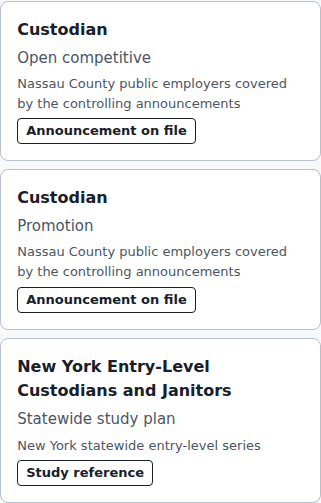
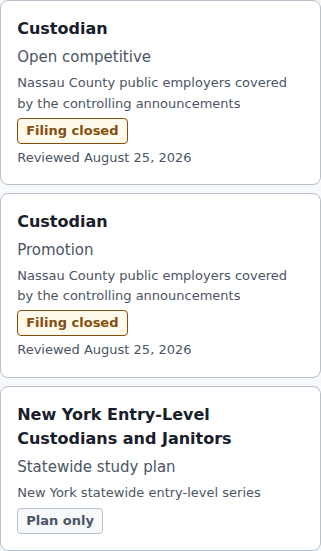
Add source-bound Exams filing filters and reviewed status labels

Changed region(s): [[0.0, 0.0, 1.0, 0.7157], [0.0312, 0.7157, 0.81, 0.9841], [0.81, 0.4771, 0.8723, 0.507]]

diff --git a/apps/site/scripts/generate-pages.tsx b/apps/site/scripts/generate-pages.tsx
@@ -1,3 +1,4 @@
+import { resolveFilingStatusReviews } from "./filing-status.ts"
 import { setupDestinations } from "../src/practice/setup-navigation.ts"
 import { questionCategoryFromSafeMetadata } from "../src/question-category.ts"
 import { ReviewQuestionBootstrap, type ReviewQuestionSource, type ReviewSceneSource } from "../src/review/model.ts"
@@ -764,6 +765,7 @@ const buildPages = ({
   readonly pages: ReadonlyArray<PageDefinition>
   readonly printBootstrap: PrintBuilderBootstrap
 } => {
+  const filingReviews = resolveFilingStatusReviews(catalog)
   const sourceById = new Map(catalog.sources.map((source) => [source.id, source]))
   const sourceLineById = new Map(catalog.sourceLines.map((line) => [line.id, line]))
   const toolById = new Map(catalog.tools.map((tool) => [tool.conceptId, tool]))
@@ -1152,6 +1154,7 @@ const buildPages = ({
       kind: identity === null ? "Statewide study plan" : capitalize(identity.competitionType.replaceAll("-", " ")),
       profile,
       identity,
+      filingReview: identity === null ? undefined : filingReviews.get(`${profile.id}:${identity.examNumber}`),
       facts: profile.announcementFactSheet?.facts.filter((fact) =>
         identity !== null && fact.appliesToExamNumbers.includes(identity.examNumber) && fact.state !== "superseded"
       ) ?? []
@@ -1328,15 +1331,17 @@ const buildPages = ({
       ${renderAnnouncementMilestones(announcementFacts, sourceLineById, sourceById, "exams-cycle")}
       <section class="home-section" id="exams-board" data-exam-browser aria-labelledby="exam-board-heading"><div class="section-header"><h2 id="exam-board-heading">Find your exam</h2><p>Open an entry to compare its facts. Your official announcement and admission notice govern your exam.</p></div>
         <div class="search-field" data-exam-search-field hidden><label class="sr-only" for="exam-search">Search announcements and study plans</label>${navIcon("search")}<input id="exam-search" type="search" data-exam-search placeholder="Title, jurisdiction, or exam number" autocomplete="off"></div>
+        <div class="filter-group" role="group" aria-label="Filing status at source review" data-exam-status-filters hidden>${[["all", "All"], ["open", "Open for filing"], ["closed", "Filing closed"], ["plan", "Plan only"]].map(([value, label]) => `<button type="button" data-exam-status-filter="${value}" aria-pressed="${value === "all"}">${label}</button>`).join("")}</div>
+        <p class="source-note">Filing labels describe the announcement at its source review date. Later notices or filing periods may exist.</p>
         <p class="source-note" data-exam-count role="status">${examRecords.length} entries in the published registry.</p>
-        <div class="record-board"><ul class="record-list" aria-label="Available profiles">${examRecords.map((record) => `<li data-exam-row data-exam-search-text="${escapeHtml(`${record.title} ${record.kind} ${record.profile.jurisdiction} ${record.identity?.examNumber ?? ""}`.toLowerCase())}"><a class="record-item" data-exam-choice="${record.id}" href="#${record.id}"><strong>${escapeHtml(record.title)}</strong><span class="record-kind">${escapeHtml(record.kind)}</span><span class="record-when">${escapeHtml(record.profile.jurisdiction)}</span><span class="status-chip">${record.identity === null ? "Study reference" : "Announcement on file"}</span></a><div class="exam-card-coverage"><p>${record.identity === null ? "The statewide guide names three subject areas. Your own announcement controls which apply." : escapeHtml(record.profile.testPlanCompatibility.detail)}</p><a class="button button-primary" href="/practice/#covers">See what practice covers</a></div></li>`).join("")}</ul>
+        <div class="record-board"><ul class="record-list" aria-label="Available profiles">${examRecords.map((record) => `<li data-exam-row data-exam-status="${record.identity === null ? "plan" : record.filingReview?.state ?? "unknown"}" data-exam-search-text="${escapeHtml(`${record.title} ${record.kind} ${record.profile.jurisdiction} ${record.identity?.examNumber ?? ""}`.toLowerCase())}"><a class="record-item" data-exam-choice="${record.id}" href="#${record.id}"><strong>${escapeHtml(record.title)}</strong><span class="record-kind">${escapeHtml(record.kind)}</span><span class="record-when">${escapeHtml(record.profile.jurisdiction)}</span><span class="status-chip ${record.filingReview?.state === "closed" ? "status-chip-warning" : "status-chip-neutral"}">${record.identity === null ? "Plan only" : record.filingReview?.state === "closed" ? "Filing closed" : record.filingReview?.state === "open" ? "Open for filing" : "Status unverified"}</span>${record.filingReview === undefined ? "" : `<span class="record-when">Reviewed ${escapeHtml(publicDate(record.filingReview.reviewedOn))}</span>`}</a><div class="exam-card-coverage"><p>${record.identity === null ? "The statewide guide names three subject areas. Your own announcement controls which apply." : escapeHtml(record.profile.testPlanCompatibility.detail)}</p><a class="button button-primary" href="/practice/#covers">See what practice covers</a></div></li>`).join("")}</ul>
           <div class="record-detail-stack"><section class="record-detail" data-exam-prompt hidden><h3>Start with the title on your announcement</h3><p>Choose an entry to read its facts and source support. Reading an entry does not change your study settings.</p></section>${examRecords.map((record) => `<article class="record-detail" id="${record.id}" data-exam-panel tabindex="-1" aria-labelledby="${record.id}-heading"><div class="record-detail-header"><div><p class="record-kind">${escapeHtml(record.kind)}</p><h3 id="${record.id}-heading">${escapeHtml(record.title)}</h3><p>${escapeHtml(record.profile.audience)}</p></div><div class="record-detail-actions"><a class="button button-primary" href="/practice/#covers">See what practice covers</a><a class="button button-secondary" href="${record.profile.canonicalPath}">Read the full profile</a></div></div>
             <details class="source-note record-source-trail"><summary>Sources for this record</summary>${sourceProofLine([...new Set(record.identity === null ? record.profile.testPlanCompatibility.sourceLineIds : record.facts.flatMap((fact) => [...fact.sourceLineIds, ...fact.conflictingValues.flatMap((value) => value.sourceLineIds)]))], record.identity === null ? [record.profile.contentAvailability.lastVerifiedOn] : record.facts.map((fact) => fact.reviewedOn), sourceLineById, sourceById)}</details>
             <div class="tabs" role="tablist" aria-label="${escapeHtml(record.title)} details" data-exam-tabs hidden><button type="button" id="${record.id}-facts-tab" role="tab" aria-selected="true" aria-controls="${record.id}-facts" data-record-tab="facts">Announcement facts</button><button type="button" id="${record.id}-subjects-tab" role="tab" aria-selected="false" aria-controls="${record.id}-subjects" data-record-tab="subjects" tabindex="-1">What it tests</button></div>
             <section id="${record.id}-facts" data-record-tab-panel="facts"><h4>Announcement facts</h4>${record.identity === null ? `<p>${escapeHtml(record.profile.testPlanCompatibility.detail)}</p><p>This statewide study plan has no exam number or filing period. Use your jurisdiction’s announcement for those details.</p>` : `<dl class="fact-table">${record.facts.filter((fact) => ["filing_period", "exam_date", "fee", "qualifications", "jurisdictions", "administration_status"].includes(fact.category)).map((fact) => `<div><dt>${escapeHtml(fact.label)}</dt><dd>${fact.state === "verified" ? "" : `<span class="fact-state fact-state-${fact.state}">${fact.category === "administration_status" && fact.state === "unverified" ? "Not confirmed" : factStateLabel(fact.state)}</span> `}${escapeHtml(fact.value ?? fact.detail ?? "No value asserted.")}<details class="source-note technical-details"><summary>Technical details</summary>${sourceLineLinks(fact.sourceLineIds, sourceLineById, sourceById)}<p>Checked ${escapeHtml(publicDate(fact.reviewedOn))}.</p></details></dd></div>`).join("")}</dl>`}<details class="source-note"><summary>Technical details</summary><p>${record.identity === null ? "No exam number at the statewide study-plan level." : `Exam number ${escapeHtml(record.identity.examNumber)}.`} Profile version ${record.profile.version}. Content reviewed ${escapeHtml(publicDate(record.profile.contentAvailability.lastVerifiedOn))}.</p></details></section>
             <section id="${record.id}-subjects" data-record-tab-panel="subjects"><h4>What it tests</h4><p>${escapeHtml(record.profile.testPlanCompatibility.detail)}</p>${scopeList}<p>Practice-set lengths and distributions are designed for this site. They do not establish the official question count or subject weights.</p><details class="technical-details"><summary>Technical details</summary>${sourceLineLinks(record.profile.testPlanCompatibility.sourceLineIds, sourceLineById, sourceById)}</details></section>
           </article>`).join("")}</div>
-        </div><div class="empty-state" data-exam-empty hidden><h3 tabindex="-1">No entries match your search</h3><p>Clear your search to see every announcement and study plan in this published registry.</p><button class="button button-secondary" type="button" data-exam-clear>Clear search</button></div>
+        </div><div class="empty-state" data-exam-empty hidden><h3 tabindex="-1">No entries match these filters</h3><p>Clear the filters to see every announcement and study plan in this published registry.</p><button class="button button-secondary" type="button" data-exam-clear>Clear filters</button></div>
       </section>
       <section class="home-section"><div class="section-header"><h2>Start studying</h2><p>Explore the original practice and reference content without an account.</p></div>${examTaskCards}</section>
     </div>

diff --git a/apps/site/browser-tests/design-handoff.pw.ts b/apps/site/browser-tests/design-handoff.pw.ts
@@ -154,7 +154,7 @@ test("exam search, record selection, and detail tabs use the published records",
   await expect(page.locator("[data-exam-empty]")).toBeVisible()
   await expect(page.locator("[data-exam-panel]:visible")).toHaveCount(0)
   expect(new URL(page.url()).searchParams.has("record")).toBe(false)
-  await page.getByRole("button", { name: "Clear search", exact: true }).click()
+  await page.getByRole("button", { name: "Clear filters", exact: true }).click()
   await expect(search).toBeFocused()
   await expect(search).toHaveValue("")
   await expect(page.locator("[data-exam-row]:visible")).toHaveCount(total)
@@ -227,4 +227,36 @@ test("exam cycle keeps the responsive reading order and sources without JavaScri
       await expectPageReflow(page)
     }
   } finally { await context.close() }
+})
+
+test("filing filters compose with search, restore from the URL, and never select a study exam", async ({ page }) => {
+  await page.setViewportSize({ width: 384, height: 900 })
+  await page.goto("/exams/?filing=closed")
+  const before = await page.evaluate(() => JSON.stringify({ ...localStorage }))
+  const filters = page.getByRole("group", { name: "Filing status at source review" })
+  const rows = page.locator("[data-exam-row]:visible")
+  await expect(filters.getByRole("button", { name: "Filing closed", exact: true })).toHaveAttribute("aria-pressed", "true")
+  await expect(rows).toHaveCount(2)
+  const search = page.getByRole("searchbox")
+  await search.fill("promotion")
+  await expect(rows).toHaveCount(1)
+  await page.locator("[data-exam-choice]:visible").click()
+  await expect(page.locator("[data-exam-panel]:visible")).toHaveCount(1)
+  await filters.getByRole("button", { name: "Plan only", exact: true }).click()
+  await expect(rows).toHaveCount(0)
+  await expect(page.locator("[data-exam-panel]:visible")).toHaveCount(0)
+  expect(new URL(page.url()).searchParams.has("record")).toBe(false)
+  await page.getByRole("button", { name: "Clear filters", exact: true }).click()
+  await expect(search).toBeFocused()
+  await expect(rows).toHaveCount(3)
+  await filters.getByRole("button", { name: "Plan only", exact: true }).click()
+  await expect(rows).toHaveCount(1)
+  await page.reload()
+  await expect(rows).toHaveCount(1)
+  await filters.getByRole("button", { name: "Open for filing", exact: true }).click()
+  await expect(rows).toHaveCount(0)
+  await expect(page.locator("[data-exam-empty]")).toBeVisible()
+  await expect(page.locator("[data-exam-prompt]")).toBeHidden()
+  await expectPageReflow(page)
+  expect(await page.evaluate(() => JSON.stringify({ ...localStorage }))).toBe(before)
 })

diff --git a/apps/site/src/static-browser.ts b/apps/site/src/static-browser.ts
@@ -147,11 +147,14 @@ const enhanceExams = (root: HTMLElement): void => {
     tabs.hidden = false
   }
 
+  const statusGroup = root.querySelector<HTMLElement>("[data-exam-status-filters]")
+  const statusButtons = [...root.querySelectorAll<HTMLButtonElement>("[data-exam-status-filter]")]
+  let status = "all"
   const filter = (): void => {
     const query = search.value.trim().toLocaleLowerCase()
     let visible = 0
     for (const row of rows) {
-      row.hidden = !(row.dataset.examSearchText ?? "").includes(query)
+      row.hidden = !(row.dataset.examSearchText ?? "").includes(query) || (status !== "all" && row.dataset.examStatus !== status)
       if (!row.hidden) visible += 1
     }
     const selected = choices.find((choice) => choice.hasAttribute("aria-current"))
@@ -159,17 +162,30 @@ const enhanceExams = (root: HTMLElement): void => {
       show(null, false)
       replaceQuery("record", null)
     }
-    count.textContent = `${visible} ${visible === 1 ? "entry" : "entries"} in the published registry${query.length > 0 ? " match your search" : ""}.`
+    count.textContent = `${visible} ${visible === 1 ? "entry" : "entries"} in the published registry${query.length > 0 || status !== "all" ? " match these filters" : ""}.`
+    for (const button of statusButtons) button.setAttribute("aria-pressed", String(button.dataset.examStatusFilter === status))
     empty.hidden = visible !== 0
+    prompt.hidden = visible === 0 || choices.some((choice) => choice.hasAttribute("aria-current"))
   }
+  for (const button of statusButtons) button.addEventListener("click", () => {
+    status = button.dataset.examStatusFilter ?? "all"
+    replaceQuery("filing", status === "all" ? null : status)
+    filter()
+  })
   search.addEventListener("input", filter)
   root.querySelector<HTMLButtonElement>("[data-exam-clear]")?.addEventListener("click", () => {
     search.value = ""
+    status = "all"
+    replaceQuery("filing", null)
     filter()
     search.focus()
   })
   const url = new URL(window.location.href)
+  const requestedStatus = url.searchParams.get("filing")
+  status = statusButtons.some((button) => button.dataset.examStatusFilter === requestedStatus) ? requestedStatus! : "all"
   show(url.searchParams.get("record") ?? url.hash.slice(1), false)
+  filter()
+  if (statusGroup !== null) statusGroup.hidden = false
   searchField.hidden = false
 }
 

diff --git a/apps/site/scripts/filing-status.ts b/apps/site/scripts/filing-status.ts
@@ -1,0 +1,35 @@
+import { createHash } from "node:crypto"
+import type { CatalogArtifact } from "@nycustodian/content/model"
+import reviews from "../../../content/authoring/announcement-filing-status.json"
+
+type Catalog = typeof CatalogArtifact.Type
+type Fact = NonNullable<Catalog["profiles"][number]["announcementFactSheet"]>["facts"][number]
+export type FilingStatusReview = { readonly state: "open" | "closed"; readonly reviewedOn: string }
+
+export const filingFactDigest = (fact: Fact): string => createHash("sha256").update(JSON.stringify([
+  fact.id, fact.category, fact.state, fact.value, fact.reviewedOn,
+  [...fact.appliesToExamNumbers].sort(), [...fact.sourceLineIds].sort()
+])).digest("hex")
+
+const object = (value: unknown): value is Record<string, unknown> => typeof value === "object" && value !== null && !Array.isArray(value)
+
+export const resolveFilingStatusReviews = (catalog: Catalog, input: unknown = reviews): ReadonlyMap<string, FilingStatusReview> => {
+  if (!object(input) || input.schemaVersion !== 1 || !Array.isArray(input.reviews)) throw new Error("Invalid filing-status review ledger")
+  const result = new Map<string, FilingStatusReview>()
+  for (const row of input.reviews) {
+    if (!object(row) || typeof row.profileId !== "string" || typeof row.examNumber !== "string" ||
+      typeof row.factId !== "string" || typeof row.reviewedOn !== "string" || typeof row.factSha256 !== "string" ||
+      (row.state !== "open" && row.state !== "closed")) throw new Error("Invalid filing-status review entry")
+    const profile = catalog.profiles.find((entry) => entry.id === row.profileId)
+    const identity = profile?.examIdentities.find((entry) => entry.examNumber === row.examNumber)
+    const fact = profile?.announcementFactSheet?.facts.find((entry) => entry.id === row.factId)
+    const key = `${row.profileId}:${row.examNumber}`
+    if (identity === undefined || fact === undefined || fact.category !== "filing_period" || fact.state !== "verified" ||
+      !fact.appliesToExamNumbers.includes(row.examNumber) || fact.reviewedOn !== row.reviewedOn ||
+      filingFactDigest(fact) !== row.factSha256 || result.has(key)) {
+      throw new Error(`Stale, duplicate, or unsupported filing-status review: ${key}`)
+    }
+    result.set(key, { state: row.state, reviewedOn: row.reviewedOn })
+  }
+  return result
+}

diff --git a/apps/site/test/filing-status.test.ts b/apps/site/test/filing-status.test.ts
@@ -1,0 +1,35 @@
+import { describe, expect, it } from "vitest"
+import catalog from "../../../content/releases/vertical-slice/catalog.json"
+import reviews from "../../../content/authoring/announcement-filing-status.json"
+import { resolveFilingStatusReviews } from "../scripts/filing-status.ts"
+
+const source = catalog as unknown as Parameters<typeof resolveFilingStatusReviews>[0]
+describe("source-bound filing status", () => {
+  it("resolves the two reviewed announcement statuses", () => {
+    const result = resolveFilingStatusReviews(source)
+    expect([...result.values()]).toEqual([
+      { state: "closed", reviewedOn: "2026-08-25" },
+      { state: "closed", reviewedOn: "2026-08-25" }
+    ])
+  })
+  it("does not invent a status for an unclassified identity", () => {
+    expect(resolveFilingStatusReviews(source, { schemaVersion: 1, reviews: [] }).size).toBe(0)
+  })
+  it("rejects changed source prose even when the fact ID and date are unchanged", () => {
+    const changed = structuredClone(catalog)
+    const fact = changed.profiles.flatMap(profile => profile.announcementFactSheet?.facts ?? []).find(entry => entry.id === "oc-filing-period")!
+    fact.value = "A changed filing window."
+    expect(() => resolveFilingStatusReviews(changed as unknown as typeof source)).toThrow(/Stale/)
+  })
+  it("rejects stale dates, wrong announcement bindings, and duplicate classifications", () => {
+    const first = reviews.reviews[0]!
+    for (const rows of [
+      [{ ...first, reviewedOn: "2026-08-24" }],
+      [{ ...first, examNumber: "61012026" }],
+      [first, first]
+    ]) expect(() => resolveFilingStatusReviews(source, { schemaVersion: 1, reviews: rows })).toThrow(/Stale/)
+  })
+  it("rejects malformed status values", () => {
+    expect(() => resolveFilingStatusReviews(source, { schemaVersion: 1, reviews: [{ ...reviews.reviews[0], state: "guessed" }] })).toThrow(/Invalid/)
+  })
+})

diff --git a/design-review/2026-09-07/IMPLEMENTATION-STATUS.md b/design-review/2026-09-07/IMPLEMENTATION-STATUS.md
@@ -14,7 +14,7 @@ The active task is the complete handoff in `/mnt/models/dev/nycustodianexam/IMPL
 | Hazard player | HAZARD-PLAYER-REVIEW.md: responsive workspace, header/save panel, nine real-state captures and nine regression tests | Visual/keyboard layout, integrated retained-image overlay, correction/safe groups and compact recovery captured; final cross-browser and matching-width visual audit remain |
 | Simulation player/results | SIMULATION-NAVIGATOR-REVIEW.md and SIMULATION-FLOW-REVIEW.md: navigator, player/timer and question-result captures at 1008/384; restore/focus checks; 24 three-browser regressions pass | Visual/keyboard hazard player/results now captured at both widths; no-concerns target corrected and six three-browser hazard regressions pass; final integrated audit and separate Static Assets check remain |
 | Print configuration | Ten products and effective controls; reviewed document scope | PRINT-OUTPUT-REVIEW.md: actual Letter/A4 question PDFs and searchable-text fix; preview rows/actions and warning/error panels reconciled; twelve ready/recovery captures and 27 three-browser print checks pass; fresh Letter/A4 PDFs retain searchable text; all 45 extended large-print/tool PDF pages audited and grid-fragmentation overlap fixed; current PDFs and per-page verification retained; 42 hazard worksheet/answer/text PDF pages audited with pagination fixes; large-print heading/URL sizing fixed with fresh PDF evidence; source-inclusive hazard estimates now finalize from assembled content; final other-product PDF refresh remains |
-| Exams / Settings / Offline / report | UTILITY-PAGES-REVIEW.md: first-visit desktop/compact captures, Settings action layout/Offline grouping and recovery checks | Delete preview cancellation/captures verified; returning saved-work counts and Offline installed summaries now use actual storage with empty/unavailable captures; export contents scope is disclosed; Exams header/compact cards and announcement-first ordering reconciled with six three-browser checks and refreshed overview/record captures; cycle responsive order/source disclosure reconciled with 17 generation tests and nine three-browser checks; explicit filing metadata/status filters, date-row consolidation, full-page audit and report comparison remain; coverage action and three-browser navigation checks pass; all record/tab states captured; actual Offline active/removal/unavailable states captured |
+| Exams / Settings / Offline / report | UTILITY-PAGES-REVIEW.md: first-visit desktop/compact captures, Settings action layout/Offline grouping and recovery checks | Delete preview cancellation/captures verified; returning saved-work counts and Offline installed summaries now use actual storage with empty/unavailable captures; export contents scope is disclosed; Exams header/compact cards and announcement-first ordering reconciled with six three-browser checks and refreshed overview/record captures; cycle responsive order/source disclosure reconciled with 17 generation tests and nine three-browser checks; source-bound filing classifications and combined URL-restored filters implemented with 22 unit and 12 three-browser checks; date-row consolidation, full-page audit and report comparison remain; coverage action and three-browser navigation checks pass; all record/tab states captured; actual Offline active/removal/unavailable states captured |
 | Final validation/publication | First-slice local commit; next slice in progress | Combined 102 core browser checks yielded 100 passes and two Offline reflow failures; scoped grid fix passes all nine targeted cross-browser checks. Remaining full-family checks, evidence index, clean local commits, reviewable publication; never merge/deploy automatically |
 
 Important discovered content difference: simulation metadata has 30 cleaning, 37 maintenance, 5 safety, and 18 mixed/scenario questions, not the prototype's 34/26/30. Preserve real classification and counts. Internal session/profile/version references remain required; global exam selection is removed.

diff --git a/design-review/2026-09-07/UTILITY-PAGES-REVIEW.md b/design-review/2026-09-07/UTILITY-PAGES-REVIEW.md
@@ -152,3 +152,33 @@ Implement explicit source-backed filing metadata/classification before adding
 the proposed status filters. Separate announcement date rows are currently
 retained, including the two equal announced exam dates; consolidation and the
 complete overview comparison remain open.
+
+## Source-bound filing filters
+
+Exams now offers All, Open for filing, Filing closed, and Plan only filters.
+They combine with text search, restore the filing filter from the URL, and clear
+a selected detail when its record is filtered out. No study preference is written.
+Without JavaScript all announcement facts remain readable and controls stay hidden.
+The empty result hides the choose-an-entry prompt because there is nothing to choose.
+
+`content/authoring/announcement-filing-status.json` is an editorial classification
+ledger bound to the released announcement facts. Both Nassau records are classified
+closed **at their August 25, 2026 source review**, based on the authored filing facts:
+the open-competitive period ended July 1; the promotion fact records the later-added
+Jericho jurisdiction deadline of July 5. This is not a new live availability check.
+The page explicitly qualifies the labels and prints each classification review date.
+The statewide plan has no filing status. Missing classifications remain unverified.
+
+The generator rejects stale or duplicate bindings, nonverified/nonfiling facts,
+wrong exam applicability, and review-date or digest mismatch. The SHA-256 input is
+JSON of the ordered array: fact ID, category, state, value, review date, sorted exam
+numbers, sorted source-line IDs. The digest detects drift; it does not itself prove
+the editorial classification. This separate display metadata leaves saved question
+and simulation receipts unchanged.
+
+Validation: production build/artifact checks, site and browser typechecks, 22 unit
+tests, and 12 Chromium/Firefox/WebKit checks passed. `capture-exams-overview.mjs`
+now records 16 desktop/compact crops, including closed, plan-only, and empty-open
+filter states. Compact closed cards and desktop empty results were visually inspected;
+that inspection found and corrected the redundant empty-result selection prompt.
+Full-page comparison and source-aware duplicate exam-date consolidation remain.
